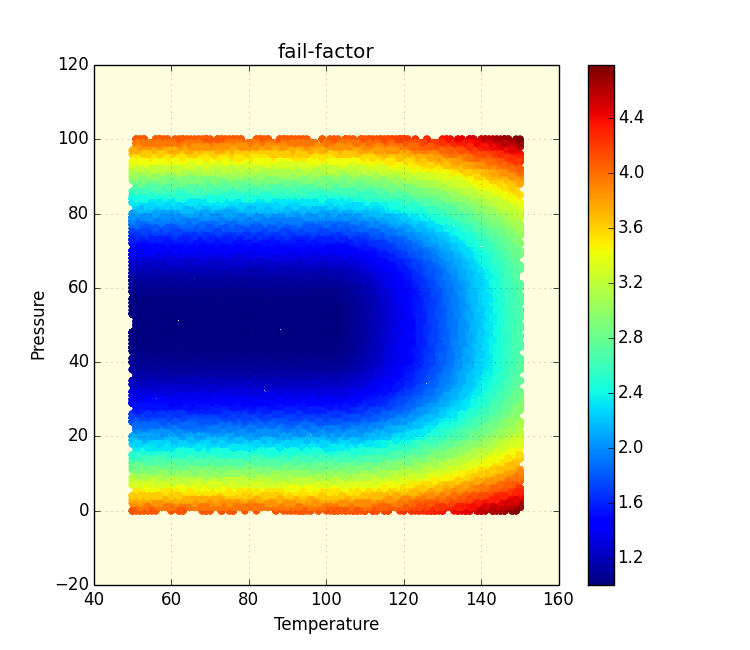
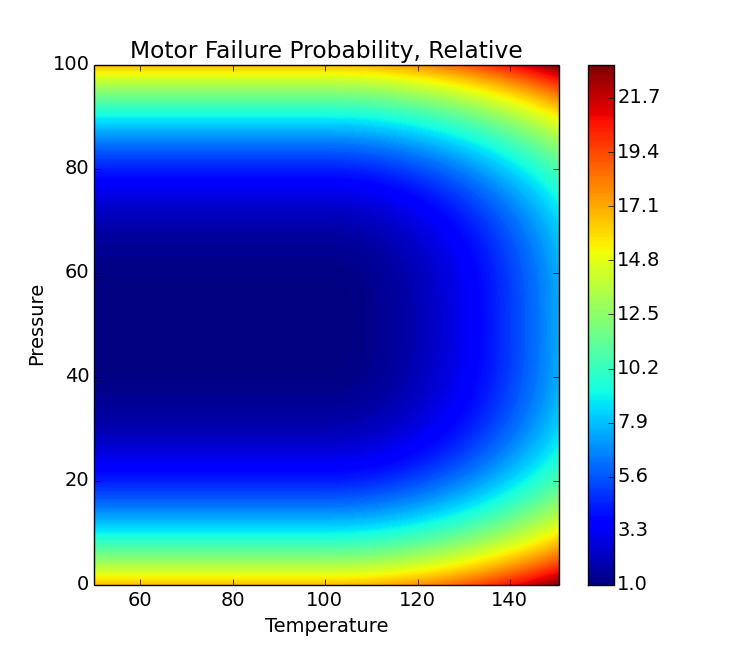
finished

diff --git a/source/smart_maint.py b/source/smart_maint.py
@@ -91,43 +91,43 @@ for m in motors:
         file.write(str(d) + '\n')
 file.close()
 
-#plot fail_factor(Pressure, Temp):
+#contour fail_factor(Temp, Pressure):
 events = get_events(motors)
-x = events.Temp.values
-y = events.Pressure.values
-clr = events.fail_factor.values
+T_axis = np.arange(50.0, 151.0, 0.5)
+P_axis = np.arange(0.0, 101.0)
+x, y = np.meshgrid(T_axis, P_axis)
+z = np.zeros((len(P_axis), len(T_axis)))
+id = 0
+motor_plot = Motor(id, Time_start_runtofail, maint_type, fail_prob_rate, Temp_0,
+        delta_Temp, Pressure_0, delta_Pressure, maint_interval, maint_duration, 
+        repair_duration, pred_maint_buffer_Time, training_axes, prediction_axis)
+for p_idx in np.arange(len(P_axis)):
+    for t_idx in np.arange(len(T_axis)):
+        motor_plot.Temp = T_axis[t_idx]
+        motor_plot.Pressure = P_axis[p_idx]
+        z[p_idx, t_idx] = motor_plot.fail_factor()
 fig = plt.figure(figsize=(7.5, 6.5))
 ax = fig.add_subplot(1, 1, 1)
-ax.set_title('fail-factor')
+ax.set_title('Fail Factor')
 ax.set_xlabel('Temperature')
 ax.set_ylabel('Pressure')
-scat = ax.scatter(x, y, c=np.sqrt(clr), linewidths=0, s=30.0, cmap='jet')
-ax.patch.set_facecolor('lightyellow')
-ax.grid(True, linestyle=':', alpha=0.3)
-plt.colorbar(scat)
+cf = ax.contourf(x, y, z, 256, cmap='jet')
+plt.colorbar(cf)
 plotfile = 'data/fail_factor.png'
 fig.savefig(plotfile)
 plt.close(fig) 
 print 'completed plot ' + plotfile
 
-#plot predicted ttf vs fail_factor:
-df = events[events.predicted_ttf.notnull()]
-x = df.fail_factor.values
-y = df.predicted_ttf.values
-clr = events.fail_factor.values
-fig = plt.figure(figsize=(7.5, 6.5))
-ax = fig.add_subplot(1, 1, 1)
-ax.set_title('Predicted Time-to-Fail vs fail-factor')
-ax.set_xlabel('fail-factor')
-ax.set_ylabel('Predicted Time to Fail')
-ax.set_xlim(x.min()-0.5, x.max()+0.5)
-ax.scatter(x, y)
-ax.patch.set_facecolor('lightyellow')
-ax.grid(True, linestyle=':', alpha=0.3)
-plotfile = 'data/time_to_fail.png'
-fig.savefig(plotfile)
-plt.close(fig) 
-print 'completed plot ' + plotfile
+
+
+#ax.set_xlim(x.min()-0.5, x.max()+0.5)
+#ax.scatter(x, y)
+#ax.patch.set_facecolor('lightyellow')
+#ax.grid(True, linestyle=':', alpha=0.3)
+#plotfile = 'data/time_to_fail.png'
+#fig.savefig(plotfile)
+#plt.close(fig) 
+#print 'completed plot ' + plotfile
 
 #plot decision surface
 
@@ -159,13 +159,13 @@ ax.plot(money.index, money.cumulative_earnings/1.e6, color='blue', linewidth=4, 
 ax.plot(money.index, money.cumulative_expenses/1.e6, color='red', linewidth=4, alpha=0.7)
 ax.add_patch(matplotlib.patches.Rectangle(
     (0,0), run_interval, ax.get_ylim()[1], color='lightsalmon', alpha=0.35))
-ax.annotate('run-to-fail', xy=(17, 52), verticalalignment='top')                
+ax.annotate('run-to-fail', xy=(19, 52), verticalalignment='top')                
 ax.add_patch(matplotlib.patches.Rectangle(
     (run_interval, 0), run_interval, ax.get_ylim()[1], color='gold', alpha=0.35))
-ax.annotate('scheduled\nmaintenance', xy=(217, 52), verticalalignment='top')                
+ax.annotate('scheduled\nmaintenance', xy=(219, 52), verticalalignment='top')                
 ax.add_patch(matplotlib.patches.Rectangle(
     (2*run_interval, 0), 4*run_interval, ax.get_ylim()[1], color='darkseagreen', alpha=0.35))
-ax.annotate('predictive\nmaintenance', xy=(417, 52), verticalalignment='top')                
+ax.annotate('predictive\nmaintenance', xy=(419, 52), verticalalignment='top')                
 ax.grid(True, linestyle=':', alpha=0.3)
 
 ax = fig.add_subplot(2, 1, 2)
@@ -173,6 +173,7 @@ ax.set_xlabel('Time')
 ax.set_ylabel('Revenue    (M$)')
 ax.set_title('Cumulative Revenue')
 ax.plot(money.index, money.cumulative_revenue/1.e6, color='green', linewidth=4)
+ax.plot(money.index, money.index*0, color='gray', linewidth=2, linestyle='.-')
 ax.add_patch(matplotlib.patches.Rectangle(
     (0,ax.get_ylim()[0]), run_interval, ax.get_ylim()[1]- ax.get_ylim()[0], 
     color='lightsalmon', alpha=0.35))
